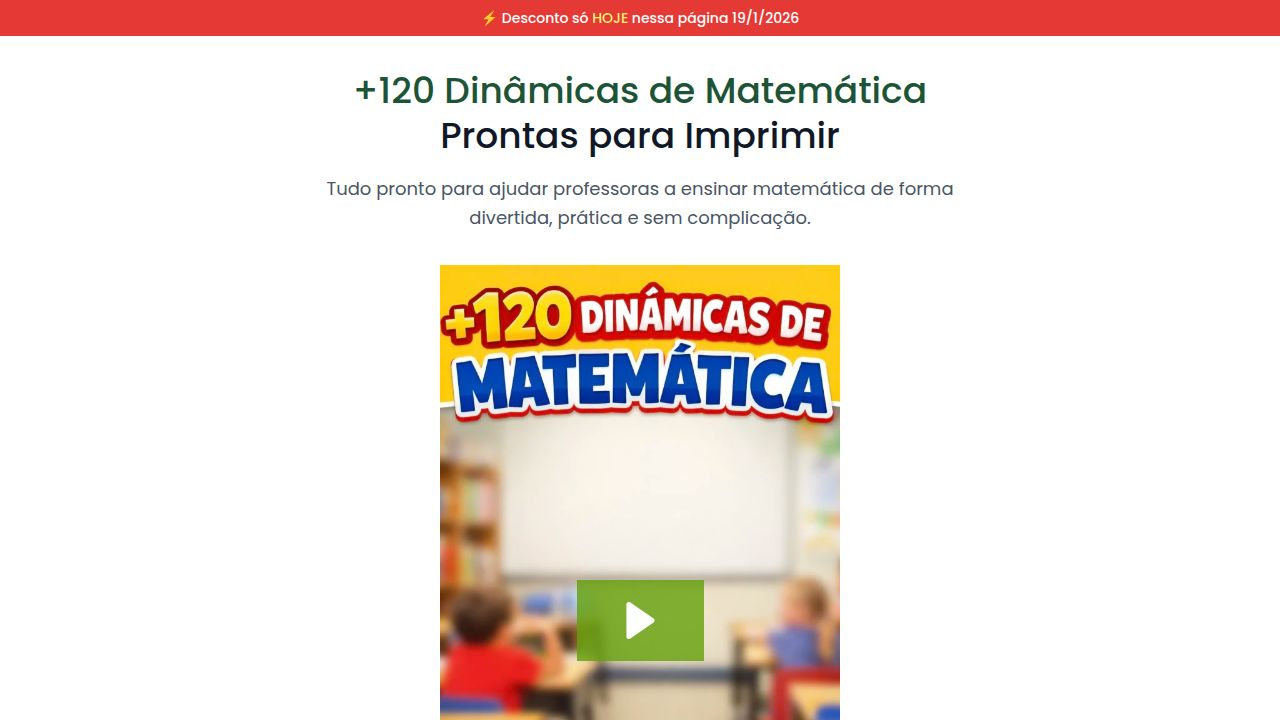
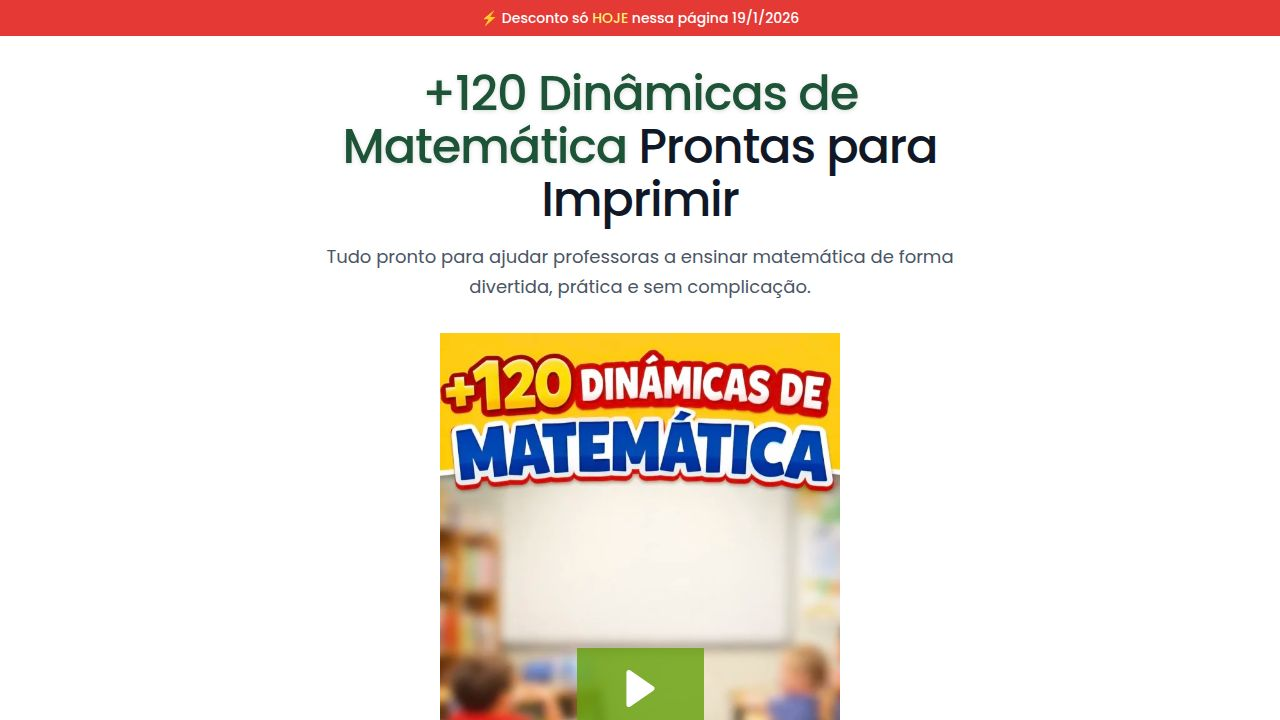
Make the main headline text stronger and more prominent
Update the main headline font size, weight to black (900), and tracking. Add a subtle text shadow for improved contrast.

Replit-Commit-Author: Agent
Replit-Commit-Session-Id: b6872305-7afc-4f21-98d0-dcf1834882e6
Replit-Commit-Checkpoint-Type: full_checkpoint
Replit-Commit-Event-Id: 77fdd8cc-25e7-4092-8909-31dd0ae6939c
Replit-Commit-Screenshot-Url: https://storage.googleapis.com/screenshot-production-us-central1/daf7ceb9-bd9e-4f41-9490-c1fd5768298a/b6872305-7afc-4f21-98d0-dcf1834882e6/aFIHmgG
Replit-Helium-Checkpoint-Created: true

Changed region(s): [[0.25, 0.0917, 0.75, 1.0]]

diff --git a/client/src/pages/Home.tsx b/client/src/pages/Home.tsx
@@ -173,8 +173,8 @@ export default function Home() {
       <div className="max-w-md mx-auto px-4 sm:max-w-lg md:max-w-2xl">
         {/* Hero Section */}
         <header className="py-8 text-center space-y-4">
-          <h1 className="text-3xl md:text-4xl font-extrabold text-gray-900 leading-tight" data-testid="text-headline">
-            <span className="font-black" style={{ color: "#1d5336" }}>+120 Dinâmicas de Matemática</span>{" "}
+          <h1 className="text-4xl md:text-5xl font-black text-gray-900 leading-[1.1] tracking-tight" data-testid="text-headline">
+            <span className="font-black drop-shadow-sm" style={{ color: "#1d5336" }}>+120 Dinâmicas de Matemática</span>{" "}
             Prontas para Imprimir
           </h1>
           <p className="text-gray-600 text-lg leading-relaxed" data-testid="text-subheadline">
